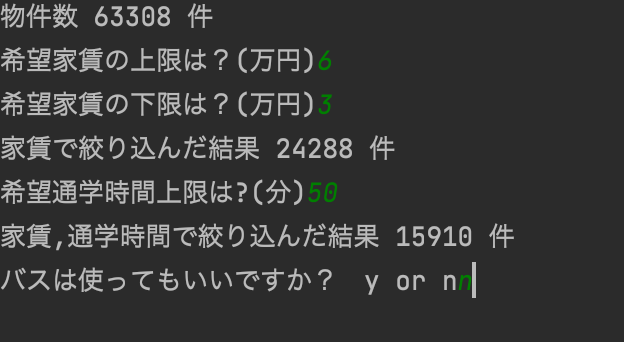
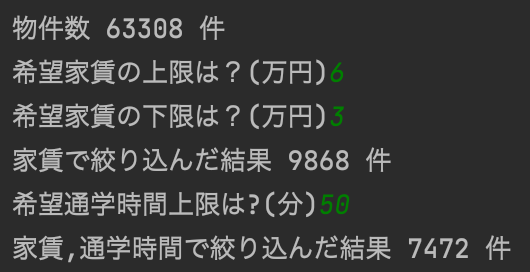
trymod

diff --git a/xbp2021/design_e12/ds/doyo_try/index.html b/xbp2021/design_e12/ds/doyo_try/index.html
@@ -16,6 +16,7 @@
         pandas、matplotlibは詳しくないので、学生気分に戻って山崎先生のデータサイエンスの課題をやってみました。<br>
         学生が住むための物件探しを目的として、おすすめの駅という観点から分析を進めていきます。<br>
         基本的には家賃、通学時間、バスの利用有無が大きな決定要素と考えられるので、それらを中心に考えていきます。<br>
+        (※2021/11/15データの絞り込みに間違いがあったのでプログラムと分析結果の数字を修正しました。)
     </div>
     <h2>ワンルーム家賃相場感</h2>
     <div>
@@ -31,25 +32,25 @@
     </div>
     <h2>家賃を絞って通学時間を見てみる</h2>
     <div>
-        ワンルーム（63308件）から家賃を3〜6万円に絞ると、24288件になりました。<br>
+        ワンルーム（63308件）から家賃を3〜6万円に絞ると、9868件になりました。<br>
         <img src="./input1.png" width="40%"><br>
-        この24288件を対象に通学時間を概観してみると、40分前後の物件が多いようです。<br>
+        この9868件を対象に通学時間を概観してみると、40分前後の物件が多いようです。<br>
         30分程度の物件もかなり存在することから、みなとみらいは都会ですが学生の一人暮らし環境としては悪く無いように感じます。<br>
         <img src="./Figure_3.png" width="40%"><br>
     </div>
     <h2>通学時間、バスの有無でも物件を絞る→おすすめ駅を抽出</h2>
     
     <div>
-        とりあえず、通学時間50分という条件でさらに物件を絞り込むと、15910件になりました。<br>
+        とりあえず、通学時間50分という条件でさらに物件を絞り込むと、7472件になりました。<br>
         <img src="./input1-2.png" width="40%"><br>
-        さらに、、バスは利用せずという条件にすると14684件にまで絞り込まれます。<br>
+        さらに、、バスは利用せずという条件にすると7026件にまで絞り込まれます。<br>
         <img src="./input1-3.png" width="40%"><br>
         条件に合致する物件が多い駅Top10を「おすすめ駅」としました。<br>
         おすすめ駅とそれぞれの物件数は下記の図の通りです。<br>
         <img src="./rec.png" width="30%"><br>
         下のヒストグラムはおすすめ駅の家賃制限（3〜6万円）内の物件の分布です。<br>
-        おすすめ駅の家賃分布を見てみると、保土ヶ谷、弘明寺、白楽には４万円以下の物件が結構ありそうです。<br>
-        日吉、元住吉、武蔵小杉は5〜6万円の物件が中心のようです。<br>
+        おすすめ駅の家賃分布を見てみると、保土ヶ谷、弘明寺、白楽、妙蓮寺には４万円以下の物件が結構ありそうです。<br>
+        日吉、元住吉、鶴見、京急鶴見は5〜6万円の物件が中心のようです。<br>
         <img src="./Figure_4.png" width="80%"><br>
     </div>
     <h2>物件の表示</h2>
@@ -67,30 +68,25 @@
     <div>
         <code>
             <ol style="list-style:decimal-leading-zero outside;in-left:0;padding-left:36px;margin:0;background-color:#F7F7F7;color:#000;">
-            <li>import pandas as pd  # データ分析に用いるライブラリ</li>
-            <li>import matplotlib.pyplot as plt  # グラフ表示に用いるライブラリ</li>
-            <li></li>
-            <li>pd.set_option('display.unicode.east_asian_width', True)  # 表示のずれを少し緩和</li>
-            <li>plt.rcParams['font.family'] = 'IPAexGothic'  # グラフ表示におけるフォントの指定</li>
-            <li></li>
+            <li>import pandas as pd # データ分析に用いるライブラリ</li>
+            <li>import matplotlib.pyplot as plt # グラフ表示に用いるライブラリ</li>
+            <li>pd.set_option('display.unicode.east_asian_width', True) # 表示のずれを少し緩和</li>
+            <li>plt.rcParams['font.family'] = 'IPAexGothic' # グラフ表示におけるフォントの指定</li>
             <li>data_path = "./data.csv"</li>
             <li>df_data = pd.read_csv(data_path, encoding="utf-8-sig")</li>
-            <li></li>
             <li># print(df_data["合計時間"].describe())</li>
             <li># print(df_data.groupby(["間取り"]).count())</li>
             <li>print("物件数", len(df_data), "件")</li>
-            <li></li>
             <li># ワンルーム全体の相場を調べる---------------------------------------</li>
             <li>mask=(df_data["間取り"]=="ワンルーム")</li>
             <li>df_selected_roomtype=df_data[mask]</li>
             <li>df_selected_roomtype.loc[:, "家賃"].hist(range=(0,20),bins=40)</li>
-            <li>plt.xlabel("ワンルーム家賃(万円)")  # 横軸のラベル</li>
-            <li>plt.ylabel("件数")  # 縦軸のラベル</li>
+            <li>plt.xlabel("ワンルーム家賃(万円)") # 横軸のラベル</li>
+            <li>plt.ylabel("件数") # 縦軸のラベル</li>
             <li>plt.xlim(0, 16)</li>
-            <li>plt.title("ワンルーム家賃のヒストグラム")  # グラフのタイトル</li>
+            <li>plt.title("ワンルーム家賃のヒストグラム") # グラフのタイトル</li>
             <li>plt.show()</li>
             <li># -------------------------------------------------------------</li>
-            <li></li>
             <li># 路線毎のワンルーム相場 -------------------------------------</li>
             <li>#エラーが出たので山崎先生に教えてもらいました。</li>
             <li>axes = df_selected_roomtype.loc[:, "家賃"].hist(by=df_selected_roomtype.loc[:, "路線"],</li>
@@ -98,43 +94,37 @@
             <li>&nbsp;&nbsp;&nbsp;&nbsp;&nbsp;&nbsp;&nbsp;&nbsp;&nbsp;&nbsp;&nbsp;&nbsp;&nbsp;&nbsp;&nbsp;&nbsp;&nbsp;&nbsp;&nbsp;&nbsp;&nbsp;&nbsp;&nbsp;&nbsp;&nbsp;&nbsp;&nbsp;&nbsp;&nbsp;&nbsp;&nbsp;&nbsp;&nbsp;&nbsp;&nbsp;&nbsp;&nbsp;&nbsp;&nbsp;&nbsp;&nbsp;&nbsp;&nbsp;&nbsp;&nbsp;&nbsp;&nbsp;&nbsp;&nbsp;figsize=(14, 7),</li>
             <li>&nbsp;&nbsp;&nbsp;&nbsp;&nbsp;&nbsp;&nbsp;&nbsp;&nbsp;&nbsp;&nbsp;&nbsp;&nbsp;&nbsp;&nbsp;&nbsp;&nbsp;&nbsp;&nbsp;&nbsp;&nbsp;&nbsp;&nbsp;&nbsp;&nbsp;&nbsp;&nbsp;&nbsp;&nbsp;&nbsp;&nbsp;&nbsp;&nbsp;&nbsp;&nbsp;&nbsp;&nbsp;&nbsp;&nbsp;&nbsp;&nbsp;&nbsp;&nbsp;&nbsp;&nbsp;&nbsp;&nbsp;&nbsp;&nbsp;sharex=True, sharey=True)</li>
             <li>for ax in axes.reshape(-1):</li>
-            <li>&nbsp;&nbsp;&nbsp;&nbsp;ax.grid(b=True)  # グリッドを表示</li>
-            <li>&nbsp;&nbsp;&nbsp;&nbsp;ax.set_xlabel("家賃(万円)")  # 横軸のラベル</li>
-            <li>&nbsp;&nbsp;&nbsp;&nbsp;ax.set_ylabel("件数")  # 縦軸のラベル</li>
-            <li>&nbsp;&nbsp;&nbsp;&nbsp;# ax.set_ylim(0, 120)  # 縦軸の目盛りの最小値と最大値の指定</li>
-            <li>plt.suptitle("路線ごとのワンルーム家賃のヒストグラム")  # グラフ全体のタイトル</li>
-            <li>plt.subplots_adjust(top=0.92,  # グラフ位置の微調整</li>
-            <li>&nbsp;&nbsp;&nbsp;&nbsp;&nbsp;&nbsp;&nbsp;&nbsp;&nbsp;&nbsp;&nbsp;&nbsp;&nbsp;&nbsp;&nbsp;&nbsp;&nbsp;&nbsp;&nbsp;&nbsp;hspace=0.3)  # グラフ間の微調整</li>
+            <li>&nbsp;&nbsp;&nbsp;&nbsp;ax.grid(b=True) # グリッドを表示</li>
+            <li>&nbsp;&nbsp;&nbsp;&nbsp;ax.set_xlabel("家賃(万円)") # 横軸のラベル</li>
+            <li>&nbsp;&nbsp;&nbsp;&nbsp;ax.set_ylabel("件数") # 縦軸のラベル</li>
+            <li>&nbsp;&nbsp;&nbsp;&nbsp;# ax.set_ylim(0, 120) # 縦軸の目盛りの最小値と最大値の指定</li>
+            <li>plt.suptitle("路線ごとのワンルーム家賃のヒストグラム") # グラフ全体のタイトル</li>
+            <li>plt.subplots_adjust(top=0.92, # グラフ位置の微調整</li>
+            <li>&nbsp;&nbsp;&nbsp;&nbsp;&nbsp;&nbsp;&nbsp;&nbsp;&nbsp;&nbsp;&nbsp;&nbsp;&nbsp;&nbsp;&nbsp;&nbsp;&nbsp;&nbsp;&nbsp;&nbsp;hspace=0.3) # グラフ間の微調整</li>
             <li>plt.show()</li>
             <li># ------------------------------------------------------</li>
-            <li></li>
-            <li></li>
             <li># 希望家賃(万)</li>
             <li>rent_upper = int(input("希望家賃の上限は？(万円)"))</li>
             <li>rent_lower = int(input("希望家賃の下限は？(万円)"))</li>
-            <li></li>
             <li># 家賃で絞り込む</li>
-            <li>mask = (df_data['家賃'] &lt;= rent_upper) &amp; (df_data['家賃'] &gt;= rent_lower)</li>
+            <li>mask = (df_selected_roomtype['家賃'] &lt;= rent_upper) &amp; (df_selected_roomtype['家賃'] &gt;= rent_lower)</li>
             <li># 絞った内容ををfilter_dfに入れる</li>
-            <li>filter_df = df_data[mask]</li>
+            <li>filter_df = df_selected_roomtype[mask]</li>
             <li>print("家賃で絞り込んだ結果", len(filter_df), "件")</li>
-            <li></li>
             <li># 通学時間---------------------------------------------------</li>
             <li>filter_df.loc[:, "合計時間"].hist(range=(0,120),bins=120)</li>
-            <li>plt.xlabel("通学時間(分)")  # 横軸のラベル</li>
-            <li>plt.ylabel("件数")  # 縦軸のラベル</li>
+            <li>plt.xlabel("通学時間(分)") # 横軸のラベル</li>
+            <li>plt.ylabel("件数") # 縦軸のラベル</li>
             <li>plt.xlim(0, 120)</li>
-            <li>plt.title(str(rent_lower) +"-" + str(rent_upper)+"万円のワンルーム：通学時間ヒストグラム")  # グラフのタイトル</li>
+            <li>plt.title(str(rent_lower) +"-" + str(rent_upper)+"万円のワンルーム：通学時間ヒストグラム") # グラフのタイトル</li>
             <li>plt.show()</li>
             <li>#----------------------------------------------------------</li>
-            <li></li>
             <li># # 通学時間（分）</li>
             <li>commuting_time = float(input("希望通学時間上限は?(分)"))</li>
             <li>mask = (filter_df['合計時間'] &lt;= commuting_time)</li>
             <li># filter_dfをさらに合計時間で絞り込む(filter_dfを上書き)</li>
             <li>filter_df = filter_df[mask]</li>
             <li>print("家賃,通学時間で絞り込んだ結果", len(filter_df), "件")</li>
-            <li></li>
             <li># バスは使いますか?</li>
             <li>bus = input('バスは使ってもいいですか？　y or n')</li>
             <li>if bus == 'n':</li>
@@ -147,25 +137,20 @@
             <li># filter_dfをさらにバス有無で絞り込み</li>
             <li>filter_df = filter_df[mask]</li>
             <li>print("家賃,通学時間、バス有無で絞り込んだ結果", len(filter_df), "件")</li>
-            <li></li>
             <li># 条件にあう分件が多い駅top10を表示(書き方難しかった)</li>
             <li>filter_top10_df = filter_df.groupby(['駅'])['駅'].count().sort_values(ascending=False).head(10)</li>
-            <li></li>
             <li># 続けるかどうかのフラグ</li>
             <li>flag = True</li>
             <li>while (flag):</li>
             <li>&nbsp;&nbsp;&nbsp;&nbsp;print('あなたにおすすめの駅は')</li>
             <li>&nbsp;&nbsp;&nbsp;&nbsp;print(filter_top10_df)</li>
-            <li></li>
             <li>&nbsp;&nbsp;&nbsp;&nbsp;# 　条件に合致する物件数が多い上位10の駅を「おすすめ駅」とする</li>
             <li>&nbsp;&nbsp;&nbsp;&nbsp;# 絞り込んだ結果をさらに「おすすめ駅」で絞り込み(ここちょっと書き方難しい)</li>
             <li>&nbsp;&nbsp;&nbsp;&nbsp;mask = filter_df['駅'].isin(filter_top10_df.index)</li>
             <li>&nbsp;&nbsp;&nbsp;&nbsp;# filter_dfからおすすめ駅に絞り込んだ結果をfilter_top10_station_dfに入れる</li>
             <li>&nbsp;&nbsp;&nbsp;&nbsp;filter_top10_station_df = filter_df[mask]</li>
-            <li></li>
             <li>&nbsp;&nbsp;&nbsp;&nbsp;# filter_top10_station_df.loc[:, "家賃"].hist(by=filter_top10_station_df.loc[:, "駅"],range=(rent_lower,rent_upper),bins=10,figsize=(8, 8))</li>
             <li>&nbsp;&nbsp;&nbsp;&nbsp;# plt.show()</li>
-            <li></li>
             <li>&nbsp;&nbsp;&nbsp;&nbsp;# ヒストグラム-------------------------------------</li>
             <li>&nbsp;&nbsp;&nbsp;&nbsp;#エラーが出たので山崎先生に教えてもらいました。</li>
             <li>&nbsp;&nbsp;&nbsp;&nbsp;axes = filter_top10_station_df.loc[:, "家賃"].hist(by=filter_top10_station_df.loc[:, "駅"],</li>
@@ -173,35 +158,31 @@
             <li>&nbsp;&nbsp;&nbsp;&nbsp;&nbsp;&nbsp;&nbsp;&nbsp;&nbsp;&nbsp;&nbsp;&nbsp;&nbsp;&nbsp;&nbsp;&nbsp;&nbsp;&nbsp;&nbsp;&nbsp;&nbsp;&nbsp;&nbsp;&nbsp;&nbsp;&nbsp;&nbsp;&nbsp;&nbsp;&nbsp;&nbsp;&nbsp;&nbsp;&nbsp;&nbsp;&nbsp;&nbsp;&nbsp;&nbsp;&nbsp;&nbsp;&nbsp;&nbsp;&nbsp;&nbsp;&nbsp;&nbsp;&nbsp;&nbsp;&nbsp;&nbsp;&nbsp;&nbsp;figsize=(10, 8),</li>
             <li>&nbsp;&nbsp;&nbsp;&nbsp;&nbsp;&nbsp;&nbsp;&nbsp;&nbsp;&nbsp;&nbsp;&nbsp;&nbsp;&nbsp;&nbsp;&nbsp;&nbsp;&nbsp;&nbsp;&nbsp;&nbsp;&nbsp;&nbsp;&nbsp;&nbsp;&nbsp;&nbsp;&nbsp;&nbsp;&nbsp;&nbsp;&nbsp;&nbsp;&nbsp;&nbsp;&nbsp;&nbsp;&nbsp;&nbsp;&nbsp;&nbsp;&nbsp;&nbsp;&nbsp;&nbsp;&nbsp;&nbsp;&nbsp;&nbsp;&nbsp;&nbsp;&nbsp;&nbsp;sharex=True, sharey=True)</li>
             <li>&nbsp;&nbsp;&nbsp;&nbsp;for ax in axes.reshape(-1):</li>
-            <li>&nbsp;&nbsp;&nbsp;&nbsp;&nbsp;&nbsp;&nbsp;&nbsp;ax.grid(b=True)  # グリッドを表示</li>
-            <li>&nbsp;&nbsp;&nbsp;&nbsp;&nbsp;&nbsp;&nbsp;&nbsp;ax.set_xlabel("家賃(万円)")  # 横軸のラベル</li>
-            <li>&nbsp;&nbsp;&nbsp;&nbsp;&nbsp;&nbsp;&nbsp;&nbsp;ax.set_ylabel("件数")  # 縦軸のラベル</li>
-            <li>&nbsp;&nbsp;&nbsp;&nbsp;plt.suptitle("おすすめ駅：家賃のヒストグラム（家賃制限内）")  # グラフ全体のタイトル</li>
-            <li>&nbsp;&nbsp;&nbsp;&nbsp;plt.subplots_adjust(top=0.92,  # グラフ位置の微調整</li>
-            <li>&nbsp;&nbsp;&nbsp;&nbsp;&nbsp;&nbsp;&nbsp;&nbsp;&nbsp;&nbsp;&nbsp;&nbsp;&nbsp;&nbsp;&nbsp;&nbsp;&nbsp;&nbsp;&nbsp;&nbsp;&nbsp;&nbsp;&nbsp;&nbsp;hspace=0.3)  # グラフ間の微調整</li>
+            <li>&nbsp;&nbsp;&nbsp;&nbsp;&nbsp;&nbsp;&nbsp;&nbsp;ax.grid(b=True) # グリッドを表示</li>
+            <li>&nbsp;&nbsp;&nbsp;&nbsp;&nbsp;&nbsp;&nbsp;&nbsp;ax.set_xlabel("家賃(万円)") # 横軸のラベル</li>
+            <li>&nbsp;&nbsp;&nbsp;&nbsp;&nbsp;&nbsp;&nbsp;&nbsp;ax.set_ylabel("件数") # 縦軸のラベル</li>
+            <li>&nbsp;&nbsp;&nbsp;&nbsp;plt.suptitle("おすすめ駅：家賃のヒストグラム（家賃制限内）") # グラフ全体のタイトル</li>
+            <li>&nbsp;&nbsp;&nbsp;&nbsp;plt.subplots_adjust(top=0.92, # グラフ位置の微調整</li>
+            <li>&nbsp;&nbsp;&nbsp;&nbsp;&nbsp;&nbsp;&nbsp;&nbsp;&nbsp;&nbsp;&nbsp;&nbsp;&nbsp;&nbsp;&nbsp;&nbsp;&nbsp;&nbsp;&nbsp;&nbsp;&nbsp;&nbsp;&nbsp;&nbsp;hspace=0.3) # グラフ間の微調整</li>
             <li>&nbsp;&nbsp;&nbsp;&nbsp;plt.show()</li>
             <li>&nbsp;&nbsp;&nbsp;&nbsp;# ------------------------------------------------------</li>
             <li>&nbsp;&nbsp;&nbsp;&nbsp;print("おすすめ駅(10駅)物件数", len(filter_top10_station_df))</li>
-            <li></li>
             <li>&nbsp;&nbsp;&nbsp;&nbsp;station = input('駅名を入力してください')</li>
             <li>&nbsp;&nbsp;&nbsp;&nbsp;# おすすめ駅Top10（filter_top10_station_df）から駅名で更に絞り込みfilter_selected_station_dfに入れる</li>
             <li>&nbsp;&nbsp;&nbsp;&nbsp;mask = (filter_top10_station_df['駅'] == station)</li>
             <li>&nbsp;&nbsp;&nbsp;&nbsp;filter_selected_station_df = filter_top10_station_df[mask]</li>
             <li>&nbsp;&nbsp;&nbsp;&nbsp;print(station + "の合致物件数", len(filter_selected_station_df), "件")</li>
-            <li></li>
             <li>&nbsp;&nbsp;&nbsp;&nbsp;# 全件表示させるようにする</li>
             <li>&nbsp;&nbsp;&nbsp;&nbsp;pd.set_option('display.max_rows', None)</li>
             <li>&nbsp;&nbsp;&nbsp;&nbsp;pd.set_option('display.max_columns', None)</li>
-            <li></li>
             <li>&nbsp;&nbsp;&nbsp;&nbsp;# 選択した駅の駅、路線、家賃、名称、合計時間、URLを表示する</li>
             <li>&nbsp;&nbsp;&nbsp;&nbsp;print(filter_selected_station_df[["駅", "路線","家賃", "名称", "合計時間", "URL"]].sort_values("家賃").to_string(index=False))</li>
             <li>&nbsp;&nbsp;&nbsp;&nbsp;print("----------------------------------------------------------------")</li>
             <li>&nbsp;&nbsp;&nbsp;&nbsp;loop_input = input("続けますか？ y or n")</li>
             <li>&nbsp;&nbsp;&nbsp;&nbsp;if loop_input == 'n':</li>
             <li>&nbsp;&nbsp;&nbsp;&nbsp;&nbsp;&nbsp;&nbsp;&nbsp;flag = False</li>
-            <li></li>
             </ol></code>
-        </div>
+    </div>
 
         <br><br>
 
